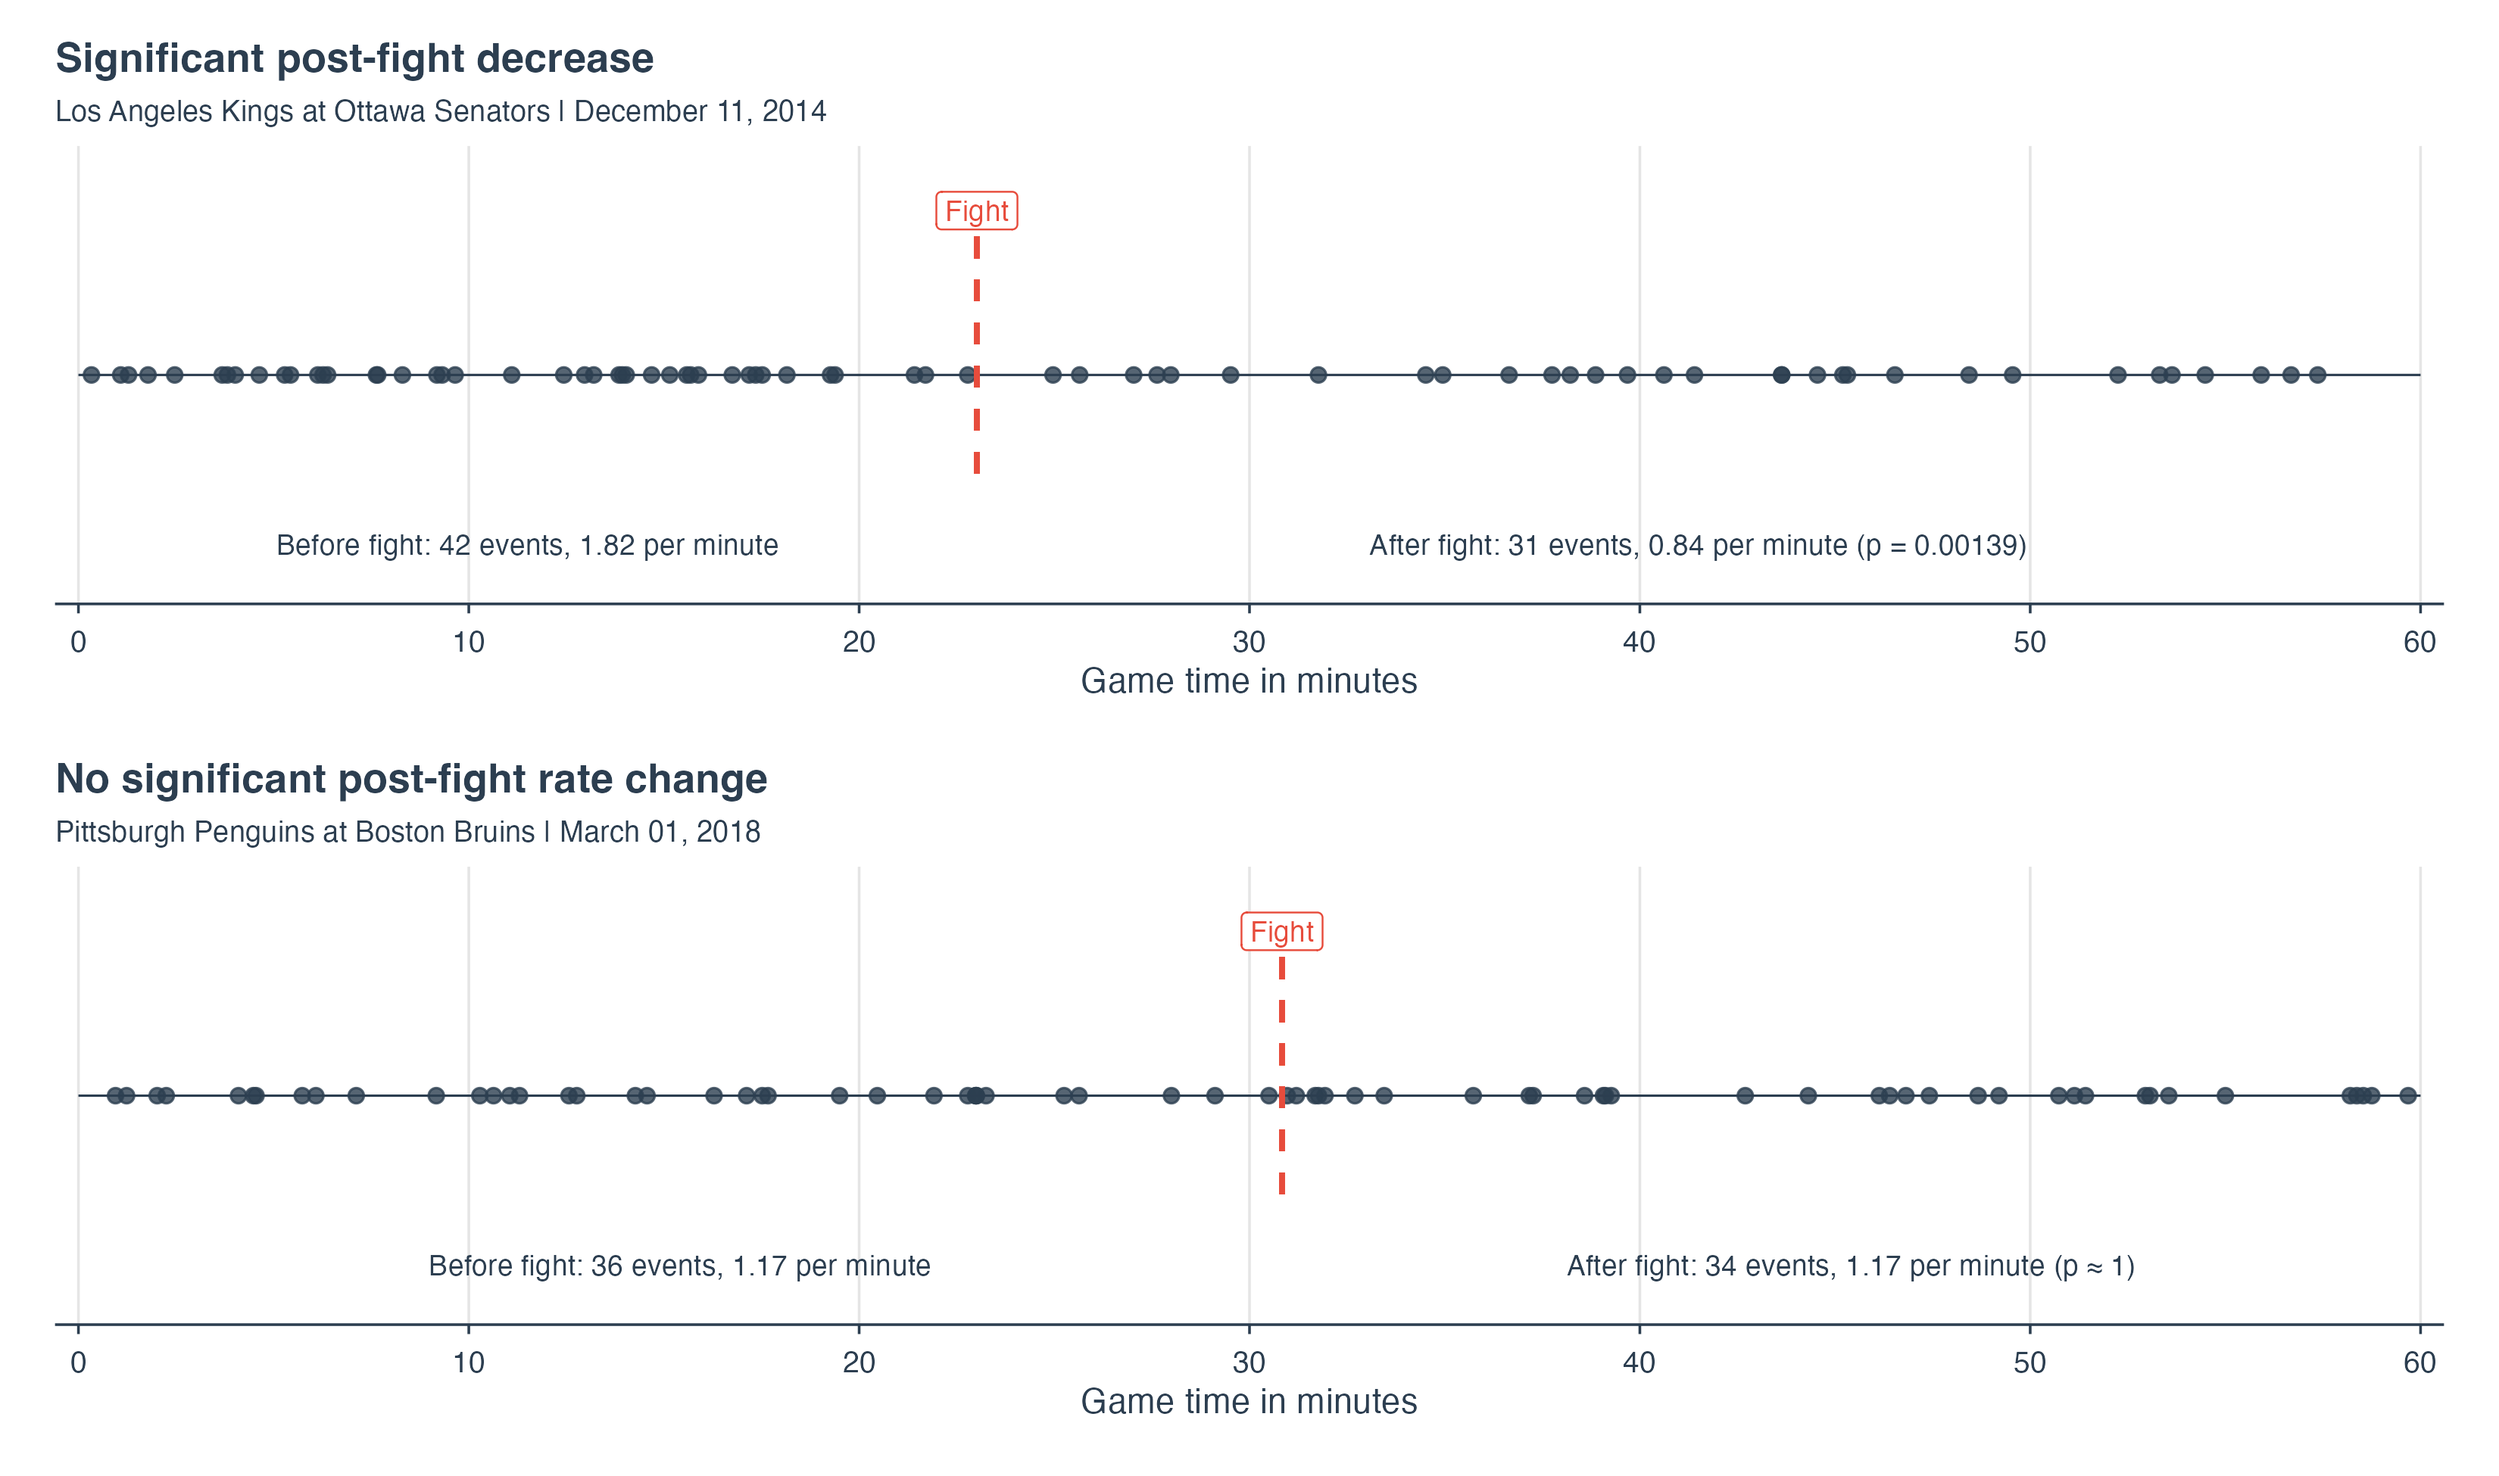
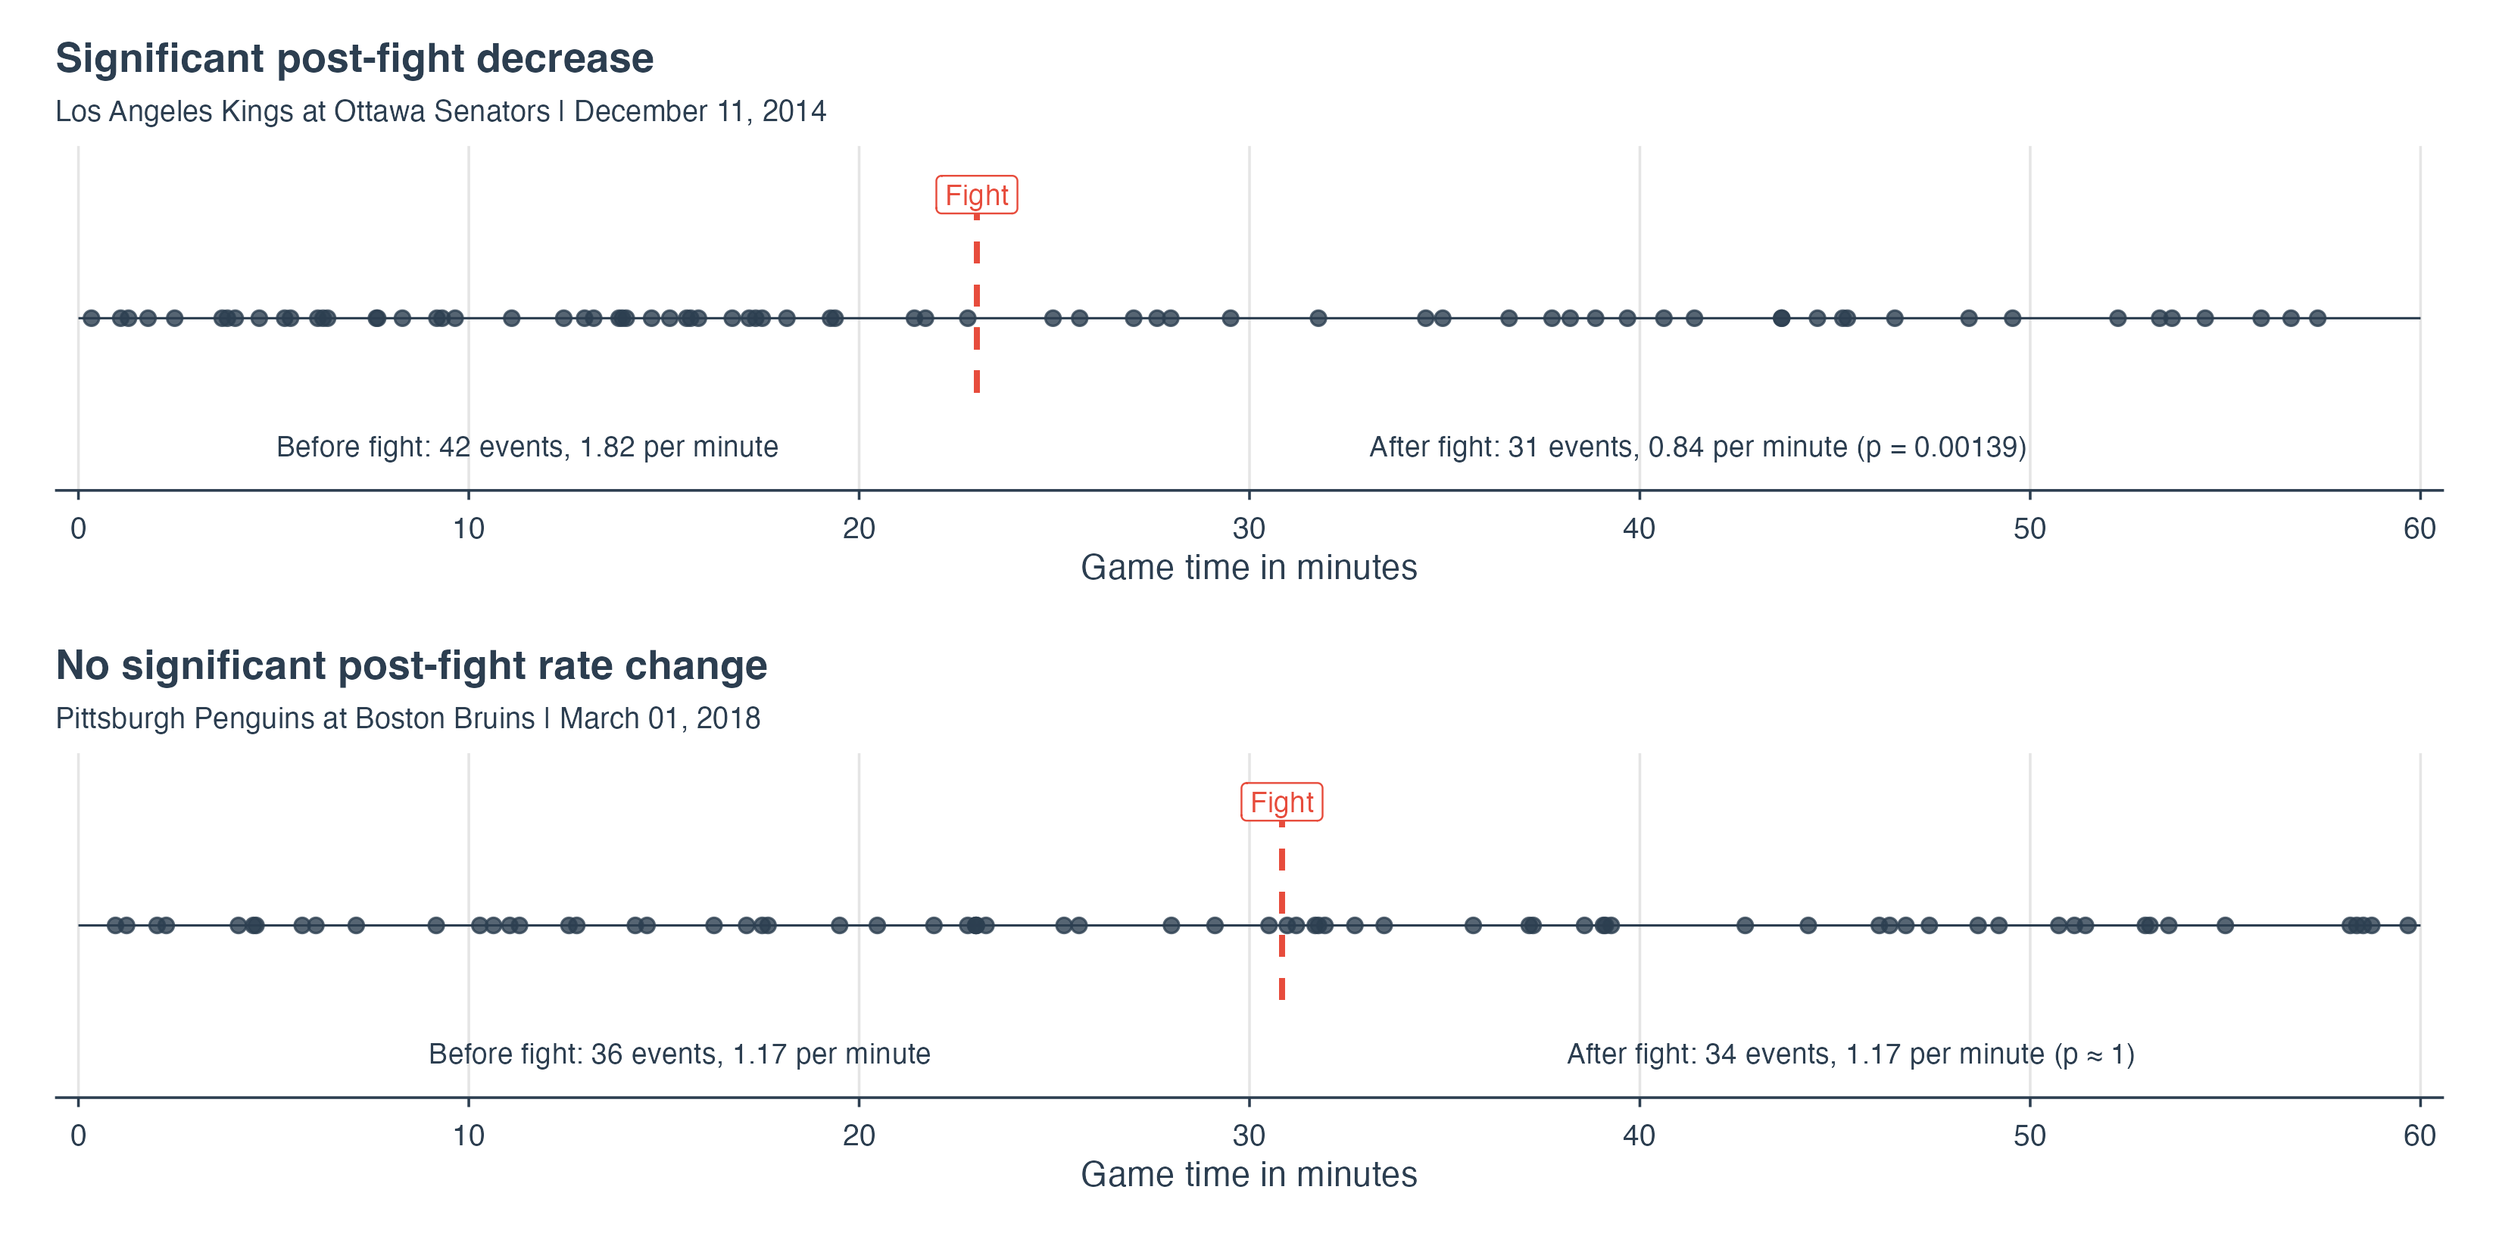
Refine paper figures and table formatting

diff --git a/SCRIPT_GUIDE.md b/SCRIPT_GUIDE.md
@@ -62,7 +62,7 @@ Builds an empirical cumulative distribution plot for the interarrival times in o
 
 ### `R/IAT/plots/make_IAT_example_plots.R`
 
-Creates the exponential and non-exponential game examples used in the paper. It selects representative games from a typical event-count range unless IDs are supplied, builds both figures with `game_plot()`, harmonizes their axes, and saves the PNG files under `plots/VIOLENT_CONTACT/paper/`. It also writes `IAT_example_note.tex` from the selected games’ metadata and statistics so the LaTeX note stays synchronized with the figures.
+Creates the exponential and non-exponential game examples used in the paper. It selects representative games from a typical event-count range unless IDs are supplied, builds both figures with `game_plot()`, harmonizes their axes, and saves wide and square PNG versions under `plots/VIOLENT_CONTACT/paper/`. The wide files retain the original names, while the side-by-side alternatives end in `_square`.
 
 ### `R/IAT/plots/game_level_plots.R`
 
